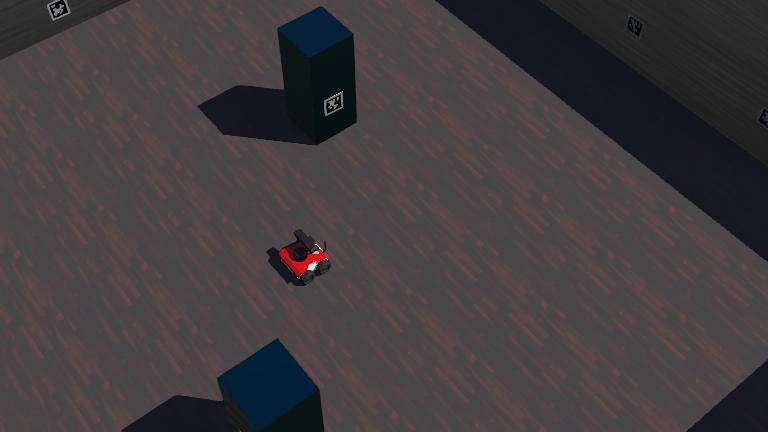
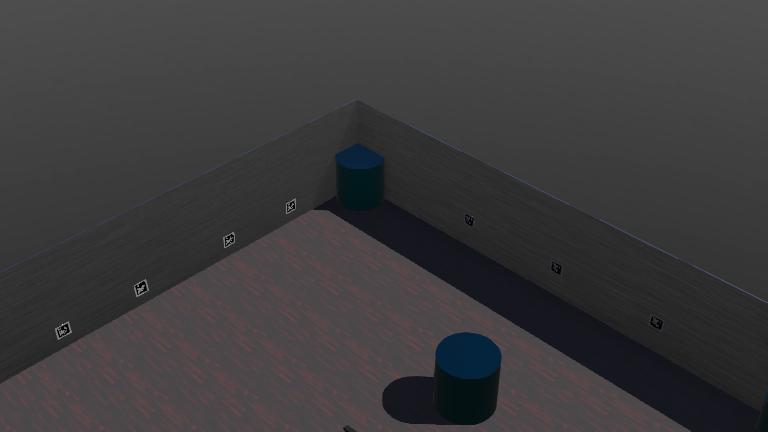
added to read me

diff --git a/controllers/my_first_controller0/my_first_controller0.py b/controllers/my_first_controller0/my_first_controller0.py
@@ -101,7 +101,7 @@ while robot.step(TIME_STEP) != -1:
 	left_enc  = rl_ps.getValue()
 	right_enc = rr_ps.getValue()
 	enc_vals = [left_enc, right_enc]
-	print(f"Encoders: {enc_vals[0]:.2f}, {enc_vals[1]:.2f}", end="  ")
+	# print(f"Encoders: {enc_vals[0]:.2f}, {enc_vals[1]:.2f}", end="  ")
 
 	# Detect AprilTags
 	res = april_detector.detect(image)
@@ -144,16 +144,16 @@ while robot.step(TIME_STEP) != -1:
 	print(f"\nOdometry pose: {pose}")
 	print(f"EKF pose:      {robot_pose}")
 
-	try:
-		print(f"Landmarks in FOV: {len(r_phi_dict)}")
-		print(f"Total landmarks: {len(landmarks)}\n{landmarks}")
-	except:
-		print("No landmarks detected")
+	# try:
+	# 	print(f"Landmarks in FOV: {len(r_phi_dict)}")
+	# 	print(f"Total landmarks: {len(landmarks)}\n{landmarks}")
+	# except:
+	# 	print("No landmarks detected")
 
 	print("-" * 30)
 	time =  robot.getTime()
 	# every n seconds, plot the landmarks
-	if int(time) % 10 == 0:
+	if int(time) % 5 == 0:
 		ekf_slam.plot_landmarks()
  	
   	# Compute avoidance-based motor speeds

diff --git a/controllers/my_first_controller0/README.md b/controllers/my_first_controller0/README.md
@@ -1,9 +1,10 @@
-# Robotics-Systems-1
+
 # EKF-SLAM using Mahalanobis Distances
 <!-- Dependencies -->
+## Python Simulation Script
+This script implements an Extended Kalman Filter (EKF) for Simultaneous Localization and Mapping (SLAM) using Mahalanobis distances. It simulates a robot moving in a 2D environment, updating its position and landmarks based on sensor measurements.
 
 ### Install dependencies
-
 ```bash
 pip install numpy matplotlib scipy
 ```
@@ -14,12 +15,10 @@ pip install numpy matplotlib scipy
 python python_sim.py
 ```
 
-<!-- Task Done by each Person -->
-### Task Done by George
-- Implemented the EKF-SLAM algorithm using Mahalanobis distances.
-- Implemented the best Hypothesis selection based on Mahalanobis distances.
+## Webots Simulation
+In order to run the Webots simulation, you need to have Webots installed. This can be done by following the instructions on the [Webots website](https://cyberbotics.com/doc/guide/installation-procedure).
 
-### Task Done by Nick
-- Created the simulation environment.
-- Created the Odometry Model. 
-- Wasted time on Husarion Rosbot3.
+After insalling Webots, you need to download the python dependencies 
+```bash
+pip install numpy matplotlib scipy opencv-python pupil_apriltags
+```